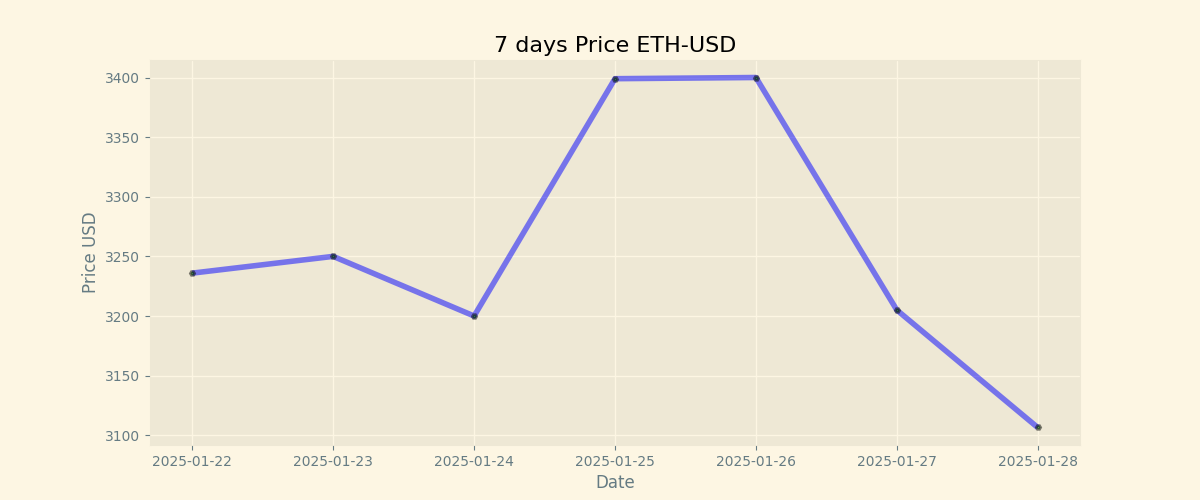
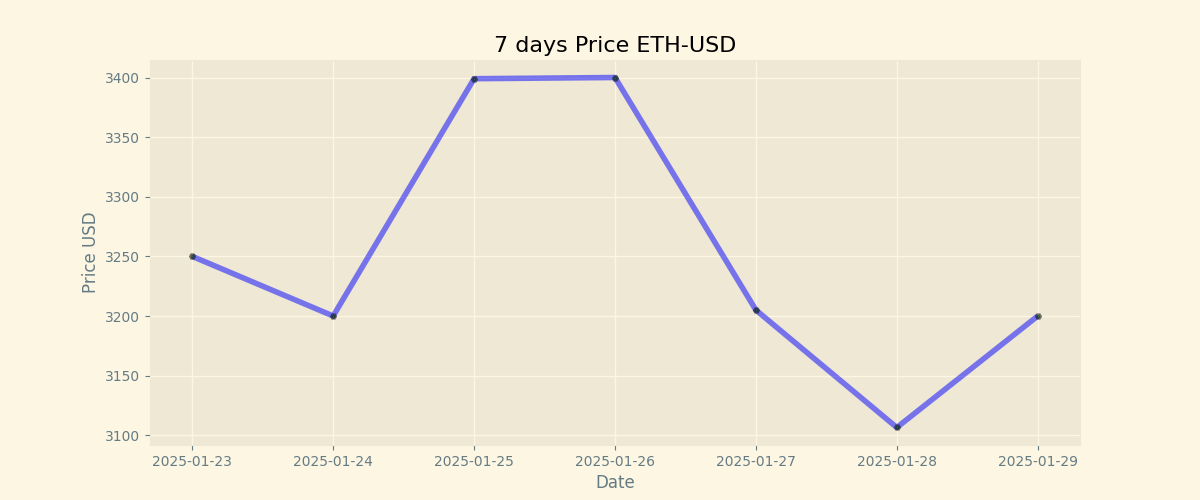
Duty Updates 2025-01-29

diff --git a/README.md b/README.md
@@ -9,8 +9,8 @@
 
 | Currency | Price           |
 | -------- | --------------- |
-| **BTC**  | **$ 99010.0** |
-| **ETH**  | **$ 3106.5** |
+| **BTC**  | **$ 103489.97** |
+| **ETH**  | **$ 3200.0** |
 
 ## BTC chart
 
